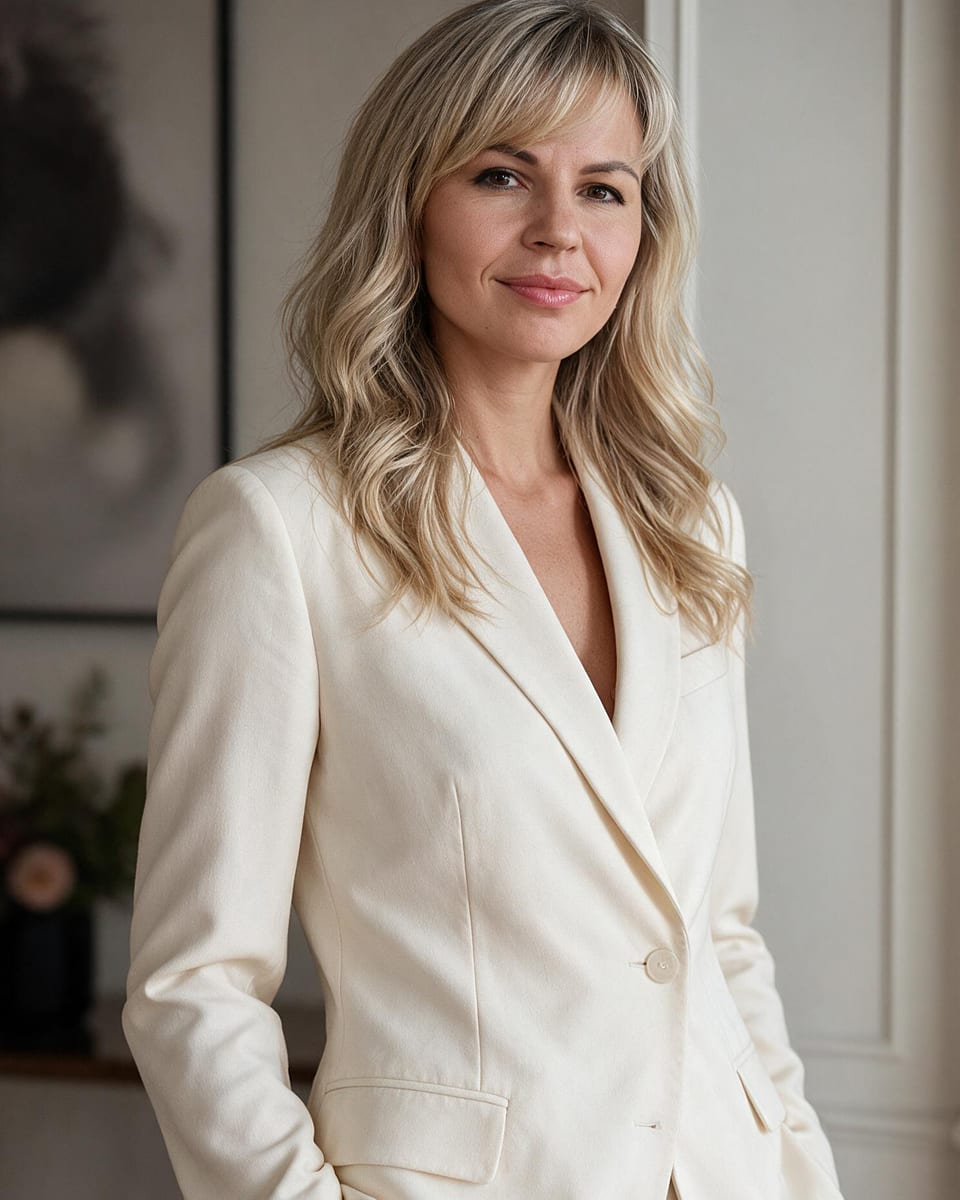
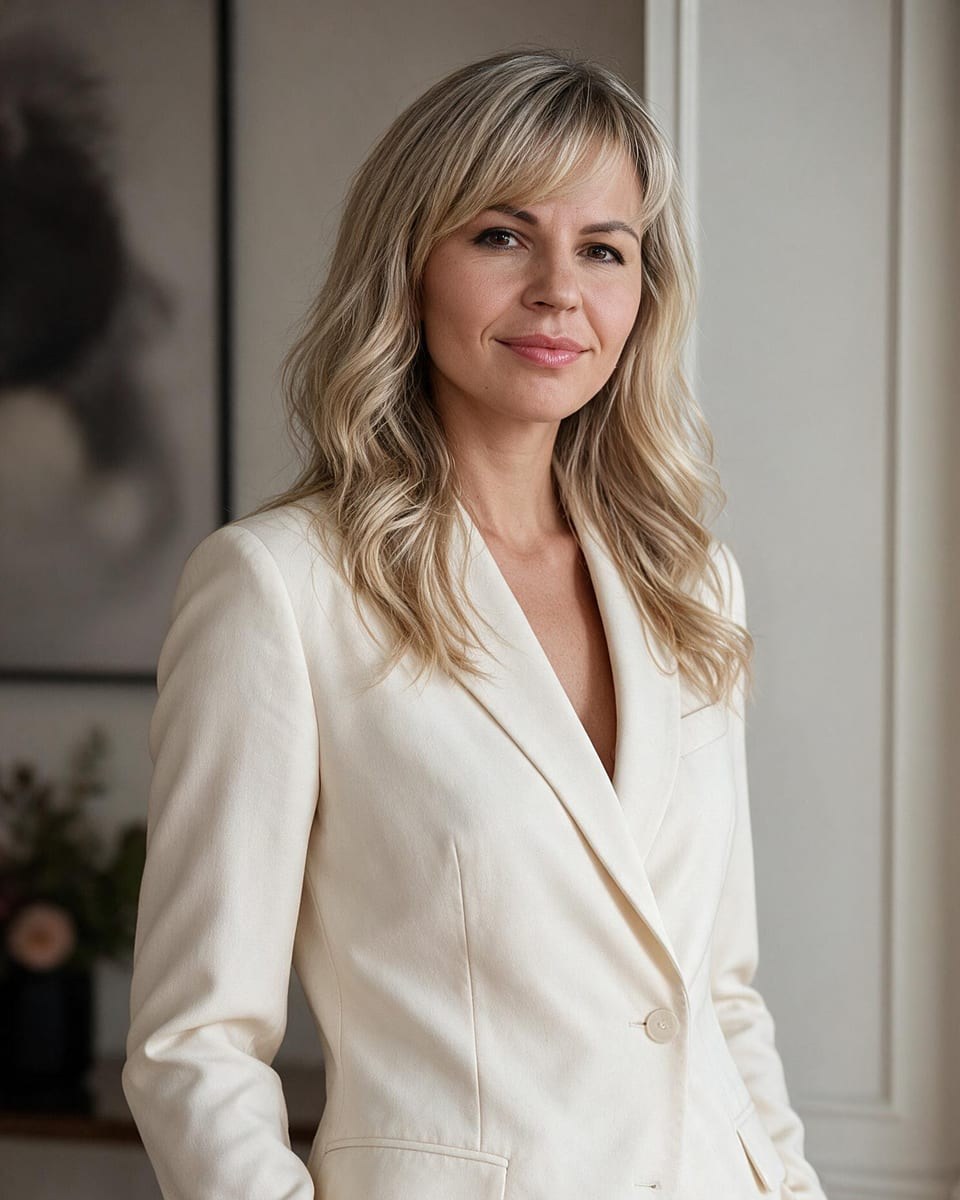
Первая статья в виде образца «Быть нужным»: меню, фото без обрезки головы, блок записи

diff --git a/uspekh-bez-radosti.html b/uspekh-bez-radosti.html
@@ -198,30 +198,44 @@ html { scroll-behavior: smooth; } body { margin: 0; background: #fff; -webkit-fo
 .ar { --pv-head: 'Comfortaa', system-ui, sans-serif; --pv-text: 'Manrope', system-ui, sans-serif; --pv-ink: #0f1b33; --pv-body: #484848;
   --pv-muted: #5a6781; --pv-accent: #2563eb; --pv-accent-deep: #1d4ed8; --pv-accent-soft: #e8f0fe; --pv-line: #e8ecf3;
   font-family: var(--pv-text); color: var(--pv-body); }
-.ar .pv-hero__meta time, .ar .pv-hero__meta span:last-child { white-space: nowrap; }
+/* Вид – как у статьи-образца «Быть нужным» (просьба Александры 21.10: «как было, максимально близко»).
+   Ниже только то, чего в образце нет, но требует ТЗ, – оформлено тихо, чтобы не спорить с образцом. */
+.ar .pv-hero__inner { padding-top: 104px; } /* место под плашку меню */
+.ar .pv-hero__meta time { white-space: nowrap; }
 .ar .pv-hero__copy > .pv-hero__lead + .pv-hero__lead { margin-top: -8px; }
-.ar-toc { max-width: 760px; margin: 40px auto 0; padding: 0 20px; }
-.ar-toc__box { background: #f7f9fd; border: 1px solid var(--pv-line); border-radius: 20px; padding: 24px 28px; }
-.ar-toc__title { font-family: var(--pv-head); font-weight: 600; font-size: 19px; color: var(--pv-ink); margin: 0 0 12px; }
-.ar-toc ol { margin: 0; padding-left: 22px; display: grid; gap: 8px; font-size: 16.5px; }
+/* фото: кадр всегда от верха – если что-то и срезается, то низ, голова целая */
+.ar .pv-hero__frame img { object-position: center top; }
+.ar .pv-hero__badge-ico svg { display: block; }
+/* содержание – одна строка, раскрывается по нажатию */
+.ar-toc { margin: 0 0 44px; border-top: 1px solid var(--pv-line); border-bottom: 1px solid var(--pv-line); font-size: 16px; }
+.ar-toc summary { list-style: none; cursor: pointer; display: flex; justify-content: space-between; align-items: center; gap: 12px; padding: 14px 0; font-weight: 600; color: var(--pv-ink); }
+.ar-toc summary::-webkit-details-marker { display: none; }
+.ar-toc summary::after { content: ""; width: 8px; height: 8px; border-right: 2px solid var(--pv-accent); border-bottom: 2px solid var(--pv-accent); transform: rotate(45deg) translateY(-3px); transition: transform .2s; flex-shrink: 0; }
+.ar-toc[open] summary::after { transform: rotate(-135deg) translateY(-3px); }
+.ar-toc ol { margin: 0 0 16px; padding-left: 22px; display: grid; gap: 6px; line-height: 1.5; }
 .ar-toc a { color: var(--pv-accent-deep); text-decoration: none; }
 .ar-toc a:hover { text-decoration: underline; }
-.ar .pv-art { padding-top: 48px; }
 .ar .pv-art h2 { scroll-margin-top: 24px; }
-.ar .pv-art h3 { padding-left: 16px; border-left: 3px solid var(--pv-accent); }
+.ar .pv-quote p { font-size: clamp(19px, 2vw, 24px); }
+.ar .pv-quote blockquote { max-width: 760px; }
 .ar-fig { margin: 28px 0 30px; }
 .ar-fig img { display: block; width: 100%; aspect-ratio: 1200 / 800; object-fit: cover; border-radius: 18px; background: #f1f4f9; }
 .ar-fig figcaption { font-size: 14px; color: var(--pv-muted); margin-top: 10px; text-align: center; }
-.ar-cta { margin: 36px 0 8px; padding: 24px 28px; background: var(--pv-accent-soft); border-radius: 18px; color: var(--pv-ink); }
-.ar-cta p { margin: 0 0 10px; }
+/* мягкий призыв в середине – как выноска в тексте образца */
+.ar-cta { margin: 28px 0; padding: 18px 24px; border-left: 3px solid var(--pv-accent); background: var(--pv-accent-soft); border-radius: 0 14px 14px 0; color: var(--pv-ink); }
+.ar-cta p { margin: 0 0 8px; }
 .ar-cta a { color: var(--pv-accent-deep); font-weight: 600; text-decoration: none; border-bottom: 1px solid currentColor; }
-.ar .pv-faq h2 { scroll-margin-top: 24px; }
-.ar-author { max-width: 760px; margin: 8px auto 0; padding: 24px 20px 0; border-top: 1px solid var(--pv-line); font-size: 16px; color: var(--pv-muted); text-align: center; }
-.ar-author b { color: var(--pv-ink); font-weight: 600; }
-.ar-author__note { max-width: 760px; margin: 8px auto 0; padding: 24px 20px 0; border-top: 1px solid var(--pv-line); text-align: center; font-family: var(--pv-head); font-size: clamp(18px, 2vw, 22px); color: var(--pv-accent); }
-.ar-author__note + .ar-author { margin-top: 0; padding-top: 12px; border-top: 0; }
-.ar-author a { color: var(--pv-accent-deep); text-decoration: none; border-bottom: 1px solid currentColor; }
-.ar .pv-more { padding-bottom: 56px; }
+/* вопросы и ответы – простым списком в ширину текста, без цветной подложки */
+.ar .pv-faq { max-width: 820px; padding: 32px 20px 8px; }
+.ar .pv-faq h2 { scroll-margin-top: 24px; margin-bottom: 20px; }
+.ar .pv-faq__list { background: none; border-radius: 0; padding: 0; border-top: 1px solid var(--pv-line); }
+.ar .pv-faq__item, .ar .pv-faq__item:last-child { border-bottom: 1px solid var(--pv-line); }
+.ar .pv-faq__item summary { font-family: var(--pv-text); font-size: 17px; font-weight: 600; color: var(--pv-ink); padding: 16px 0; }
+.ar .pv-faq__icon { width: 14px; height: 14px; }
+.ar .pv-faq__icon::before, .ar .pv-faq__icon::after { top: 6px; background: var(--pv-accent); }
+.ar .pv-faq__item p { font-size: 16.5px; margin: 0 0 18px; }
+.ar .pv-cta__name a { color: inherit; text-decoration: none; }
+.ar .pv-cta__name a:hover { color: var(--pv-accent); }
 /* фото в карточках вертикальные: карточка выше, кадр прижат к верху – чтобы не резать лицо */
 .ar .pv-more__img { aspect-ratio: 4 / 3; }
 .ar .pv-more__img img { object-position: center top; }
@@ -233,31 +247,74 @@ html { scroll-behavior: smooth; } body { margin: 0; background: #fff; -webkit-fo
 .ar-foot a:hover { text-decoration: underline; }
 .ar-foot__links { display: flex; flex-wrap: wrap; gap: 6px 20px; }
 a:focus-visible, summary:focus-visible, button:focus-visible { outline: 3px solid #93b4ff; outline-offset: 3px; border-radius: 6px; }
-@media (max-width: 640px) { .ar-toc__box { padding: 20px; } .ar-cta { padding: 20px; } }
+/* на телефоне фото не квадратом (резало макушку), а тем же вертикальным кадром 4:5 */
+@media (max-width: 960px) { .ar .pv-hero__inner { padding-top: 80px; } .ar .pv-hero__visual { aspect-ratio: 4 / 5; max-width: 420px; } }
+@media (max-width: 640px) { .ar .pv-hero__inner { padding-top: 68px; } .ar-cta { padding: 16px 18px; } .ar .pv-faq__item summary { font-size: 16px; } }
 @media (prefers-reduced-motion: reduce) { html { scroll-behavior: auto; } }
+</style>
+<style>
+.kh-bar { position: absolute; z-index: 50; top: 20px; left: 40px; right: 40px; min-height: 40px; display: flex; align-items: center; justify-content: space-between;
+  padding: 0 20px; background: #3f84ff; border-radius: 0 0 20px 20px; font-family: 'Manrope', sans-serif; box-sizing: border-box; }
+.kh-bar__phone { color: #fff; font-weight: 700; font-size: 16px; text-decoration: none; }
+.kh-bar__burger { width: 40px; height: 40px; border: 0; background: none; cursor: pointer; display: grid; place-content: center; gap: 4px; padding: 0; }
+.kh-bar__burger span { display: block; width: 20px; height: 2px; background: #fff; border-radius: 1px; }
+.kh-menu__overlay { position: fixed; inset: 0; z-index: 90; background: rgba(0,0,0,.6); }
+.kh-menu { position: fixed; z-index: 100; top: 0; right: 0; bottom: 0; width: min(320px, 86vw); background: #3f84ff; padding: 80px 32px 32px; box-sizing: border-box; font-family: 'Manrope', sans-serif; }
+.kh-menu ul { list-style: none; margin: 0; padding: 0; display: grid; gap: 22px; }
+.kh-menu a { color: #fff; font-size: 16px; font-weight: 600; text-decoration: none; }
+.kh-menu a:hover { opacity: .8; }
+.kh-menu__close { position: absolute; top: 18px; right: 18px; width: 36px; height: 36px; border: 0; background: none; cursor: pointer; }
+.kh-menu__close span { position: absolute; left: 7px; top: 17px; width: 22px; height: 2px; background: #fff; border-radius: 1px; }
+.kh-menu__close span:first-child { transform: rotate(45deg); }
+.kh-menu__close span:last-child { transform: rotate(-45deg); }
+.kh-menu[hidden], .kh-menu__overlay[hidden] { display: none; }
+@media (max-width: 960px) { .kh-bar { top: 5px; left: 5px; right: 5px; } }
 </style>
 </head>
 <body>
+
+<header class="kh-bar">
+  <a class="kh-bar__phone" href="tel:+79032780210">+7 903 278 0210</a>
+  <button class="kh-bar__burger" type="button" aria-expanded="false" aria-controls="kh-menu" aria-label="Меню"><span></span><span></span><span></span></button>
+</header>
+<div class="kh-menu__overlay" hidden></div>
+<nav class="kh-menu" id="kh-menu" aria-label="Навигационное меню" hidden>
+  <button class="kh-menu__close" type="button" aria-label="Закрыть меню"><span></span><span></span></button>
+  <ul>
+    <li><a href="/khomyanina-stati/">Главная</a></li>
+    <li><a href="/khomyanina-stati/#rec4125604701">Для кого</a></li>
+    <li><a href="/khomyanina-stati/#rec4126838701">Формат работы</a></li>
+    <li><a href="/khomyanina-stati/#rec4122606101">Начать сотрудничество</a></li>
+    <li><a href="/khomyanina-stati/stati">Статьи</a></li>
+  </ul>
+</nav>
 <main class="ar">
-<!-- Верх статьи – как на старых статьях сайта (просьба Александры 20.10): текст слева, вертикальное фото справа целиком.
-     Из ТЗ: под H1 мета-строка (рубрика, дата, время чтения), без плашек «Статья N». Широкая обложка 1200×630 – только для поисковиков и соцсетей. -->
+<!-- Верх статьи – как у образца «Быть нужным»: текст слева, вертикальное фото справа, плашка на фото.
+     Из ТЗ: под H1 рубрика и дата, без плашек «Статья N». Широкая обложка 1200×630 – только для поисковиков и соцсетей. -->
 <section class="pv-hero" aria-labelledby="pv-hero-title"><div class="pv-hero__inner"> <div class="pv-hero__copy">
   <h1 class="pv-hero__title" id="pv-hero-title">Успех без радости: <em>почему достижения</em> не приносят удовлетворения</h1>
-  <div class="pv-hero__meta ar-meta"><span class="pv-hero__tag">Психология карьеры</span><time datetime="2026-10-12">12 октября 2026</time><span>8 минут чтения</span></div>
+  <div class="pv-hero__meta ar-meta"><span class="pv-hero__tag">Психология карьеры</span><time datetime="2026-10-12">12 октября 2026</time></div>
   <p class="pv-hero__lead">Вы достигли цели, о которой мечтали, но вместо радости чувствуете пустоту и усталость? В этой статье мы разберем, почему так происходит с точки зрения нейрофизиологии и психологии, и что сделать, чтобы вернуть вкус к жизни и работе.</p>
   <div class="pv-hero__author"><div class="pv-hero__avatar" aria-hidden="true">Н</div> <div><div class="pv-hero__name">Надежда Хомянина</div><div class="pv-hero__role">Психолог в сфере профессиональной реализации</div></div></div>
-  <div class="pv-hero__cta-row"> <a class="pv-hero__cta" href="#pv-article">Читать статью <svg width="18" height="18" viewBox="0 0 24 24" fill="none" aria-hidden="true"><path d="M5 12h14M13 6l6 6-6 6" stroke="currentColor" stroke-width="2" stroke-linecap="round" stroke-linejoin="round"/></svg></a> </div>
-</div> <div class="pv-hero__visual"> <div class="pv-hero__frame"><img src="/khomyanina-stati/img/uspekh-bez-radosti-foto.jpg" alt="Надежда Хомянина, психолог, статья об успехе без радости" width="960" height="1200" fetchpriority="high"></div> </div> </div></section>
-<section class="pv-quote"><blockquote><p>«Я сейчас самый несчастный человек из живущих. Если бы то, что я чувствую, распределили поровну между всем человечеством, на земле не осталось бы ни одного улыбающегося лица».</p><cite>Авраам Линкольн, 1841 год</cite></blockquote></section>
-<nav class="ar-toc" aria-label="Содержание"><div class="ar-toc__box"><p class="ar-toc__title">Содержание</p><ol>
+  <div class="pv-hero__cta-row">
+    <a class="pv-hero__cta" href="#pv-article">Читать статью <svg width="18" height="18" viewBox="0 0 24 24" fill="none" aria-hidden="true"><path d="M5 12h14M13 6l6 6-6 6" stroke="currentColor" stroke-width="2" stroke-linecap="round" stroke-linejoin="round"/></svg></a>
+    <span class="pv-hero__readtime"><svg width="16" height="16" viewBox="0 0 24 24" fill="none" aria-hidden="true"><circle cx="12" cy="12" r="9" stroke="currentColor" stroke-width="2"/><path d="M12 7v5l3 2" stroke="currentColor" stroke-width="2" stroke-linecap="round"/></svg>8 минут чтения</span>
+  </div>
+</div> <div class="pv-hero__visual">
+  <div class="pv-hero__frame"><img src="/khomyanina-stati/img/uspekh-bez-radosti-foto.jpg" alt="Надежда Хомянина, психолог, статья об успехе без радости" width="960" height="1200" fetchpriority="high"></div>
+  <div class="pv-hero__badge"><div class="pv-hero__badge-ico" aria-hidden="true"><svg width="20" height="20" viewBox="0 0 24 24" fill="none"><path d="M4 5.5C4 4.7 4.7 4 5.5 4H11v16H5.5c-.8 0-1.5-.7-1.5-1.5v-13zM20 5.5c0-.8-.7-1.5-1.5-1.5H13v16h5.5c.8 0 1.5-.7 1.5-1.5v-13z" stroke="currentColor" stroke-width="1.8" stroke-linejoin="round"/></svg></div>
+    <div><div class="pv-hero__badge-title">Успех без радости</div><div class="pv-hero__badge-sub">почему достижения не приносят удовлетворения</div></div></div>
+</div> </div></section>
+<section class="pv-quote"><blockquote><p>«Я сейчас самый несчастный человек из живущих. Если бы то, что я чувствую, распределили поровну между всем человечеством, на земле не осталось бы ни одного улыбающегося лица».</p><cite>— Авраам Линкольн, 1841 год</cite></blockquote></section>
+<article class="pv-art" id="pv-article">
+<details class="ar-toc"><summary>Содержание статьи</summary><nav aria-label="Содержание"><ol>
   <li><a href="#почему">Почему успех не приносит радости</a></li>
   <li><a href="#линкольн">Исторический пример: успешные и несчастные</a></li>
   <li><a href="#наука">Что говорит наука</a></li>
   <li><a href="#опыт">Пример из моей практики</a></li>
   <li><a href="#что-делать">Что делать, если успех не приносит радости</a></li>
   <li><a href="#faq">Часто задаваемые вопросы</a></li>
-</ol></div></nav>
-<article class="pv-art" id="pv-article">
+</ol></nav></details>
   <h2 id="почему">Почему успех не приносит радости</h2>
   <p>Мы живём в эпоху культа достигаторства. Соцсети, бизнес-литература и корпоративная культура твердят: ставь цели, достигай, побеждай. И мы достигаем. Повышение, проект, квартира, свой бизнес. Всё, как надо. Но внутри — тишина. Не радость, не гордость, а звенящая пустота и вопрос: «И это всё?»</p>
   <p>Это не личная несостоятельность. Это закономерность, у которой есть научное объяснение.</p>
@@ -298,15 +355,34 @@ a:focus-visible, summary:focus-visible, button:focus-visible { outline: 3px soli
   <details class="pv-faq__item"><summary>Когда стоит обратиться к психологу по карьере?<span class="pv-faq__icon" aria-hidden="true"></span></summary><p>Если вы достигли целей, но чувствуете опустошение, потерю смысла или постоянную усталость. Психолог поможет разобраться в истинных ценностях и выстроить путь, который будет приносить удовлетворение.</p></details>
   <details class="pv-faq__item"><summary>Можно ли вернуть радость от достижений?<span class="pv-faq__icon" aria-hidden="true"></span></summary><p>Конечно. Это процесс не быстрый, но очень увлекательный. Пустота внутри — это не про недостаток достижений, а про потерю связи с собой. А связь с собой — это когда вы себе не чужой. Когда вы себе — лучший друг, а не строгий надзиратель. Эту связь можно и нужно восстановить.</p></details>
 </div></section>
-
-<p class="ar-author"><b>Надежда Хомянина</b>, психолог в сфере профессиональной реализации · <a href="/khomyanina-stati/#about">Обо мне</a></p>
 <section class="pv-more" aria-labelledby="pv-more-title"><h2 id="pv-more-title">Читайте также</h2> <div class="pv-more__grid">
   <a class="pv-more__card" href="/khomyanina-stati/kto-ty-bez-raboty"><div class="pv-more__img"><img src="/khomyanina-stati/img/kto-ty-bez-raboty-oblozhka.jpg" alt="" loading="lazy"></div> <div class="pv-more__body"><span class="pv-more__tag">Психология карьеры</span><span class="pv-more__title">Кто ты без работы: когда профессия перестаёт быть опорой</span><span class="pv-more__link">Читать статью</span></div></a>
   <a class="pv-more__card" href="/khomyanina-stati/cennosti-kak-kompas"><div class="pv-more__img"><img src="/khomyanina-stati/img/cennosti-kak-kompas-oblozhka.jpg" alt="" loading="lazy"></div> <div class="pv-more__body"><span class="pv-more__tag">Психология карьеры</span><span class="pv-more__title">Ценности как компас: на что опираться, чтобы принимать верные решения</span><span class="pv-more__link">Читать статью</span></div></a>
   <a class="pv-more__card" href="/khomyanina-stati/otkladyvanie-vazhnyh-reshenij"><div class="pv-more__img"><img src="/khomyanina-stati/img/otkladyvanie-vazhnyh-reshenij-oblozhka.jpg" alt="" loading="lazy"></div> <div class="pv-more__body"><span class="pv-more__tag">Психология карьеры</span><span class="pv-more__title">Откладывание важных решений: почему мы не решаемся и как это преодолеть</span><span class="pv-more__link">Читать статью</span></div></a>
 </div> <p class="pv-more__home"><a href="/khomyanina-stati/stati">Все статьи</a></p></section>
+<!-- Конец статьи – как у образца: фото, обращение, подпись автора (ссылка на «Обо мне» – по ТЗ), кнопка записи -->
+<section class="pv-cta" aria-label="Записаться к психологу Надежде Хомяниной"><div class="pv-cta__inner">
+  <div class="pv-cta__avatar"><img src="/khomyanina-stati/img/avatar.jpg" alt="Надежда Хомянина, психолог" width="260" height="348" loading="lazy"></div>
+  <p class="pv-cta__lead">Если эта тема откликается и хочется разобраться, что стоит за вашей ситуацией, — <span class="pv-cta__accent">я рядом</span>.</p>
+  <p class="pv-cta__line">Я точно знаю, что выход есть. И верю в вас.</p>
+  <p class="pv-cta__line">Буду рада помочь.</p>
+  <div class="pv-cta__sign"><span class="pv-cta__divider" aria-hidden="true"></span>
+    <p class="pv-cta__name"><a href="/khomyanina-stati/#about">Надежда Хомянина</a></p><p class="pv-cta__role">психолог в сфере профессиональной реализации</p></div>
+  <a class="pv-cta__btn" href="/khomyanina-stati/#rec4122606101">Записаться на консультацию <svg width="18" height="18" viewBox="0 0 24 24" fill="none" aria-hidden="true"><path d="M5 12h14M13 6l6 6-6 6" stroke="currentColor" stroke-width="2" stroke-linecap="round" stroke-linejoin="round"/></svg></a>
+</div></section>
 </main>
 <footer class="ar-foot"><div class="ar-foot__in"> <div>© 2026 Хомянина Н. Н., Москва · ИНН 620601455499<br><a href="tel:+79032780210">+7 903 278-02-10</a> · <a href="mailto:sch-geisha@yandex.ru">sch-geisha@yandex.ru</a></div> <div class="ar-foot__links"><a href="/khomyanina-stati/policy">Политика обработки персональных данных</a><a href="/khomyanina-stati/personal">Согласие на обработку персональных данных</a></div></div></footer>
+<script>
+(function () {
+  var burger = document.querySelector('.kh-bar__burger'), menu = document.getElementById('kh-menu'), ov = document.querySelector('.kh-menu__overlay');
+  window.khSetMenu = function (open) { menu.hidden = !open; ov.hidden = !open; burger.setAttribute('aria-expanded', open); document.body.style.overflow = open ? 'hidden' : ''; if (open) menu.querySelector('a').focus(); };
+  burger.addEventListener('click', function () { khSetMenu(true); });
+  ov.addEventListener('click', function () { khSetMenu(false); });
+  menu.querySelector('.kh-menu__close').addEventListener('click', function () { khSetMenu(false); });
+  menu.querySelectorAll('a').forEach(function (a) { a.addEventListener('click', function () { khSetMenu(false); }); });
+  document.addEventListener('keydown', function (e) { if (e.key === 'Escape') khSetMenu(false); });
+})();
+</script>
 <!-- Яндекс Метрика: работает только на домене khomyanina.ru -->
 <script>
 if (/(^|\.)khomyanina\.ru$/.test(location.hostname)) {
